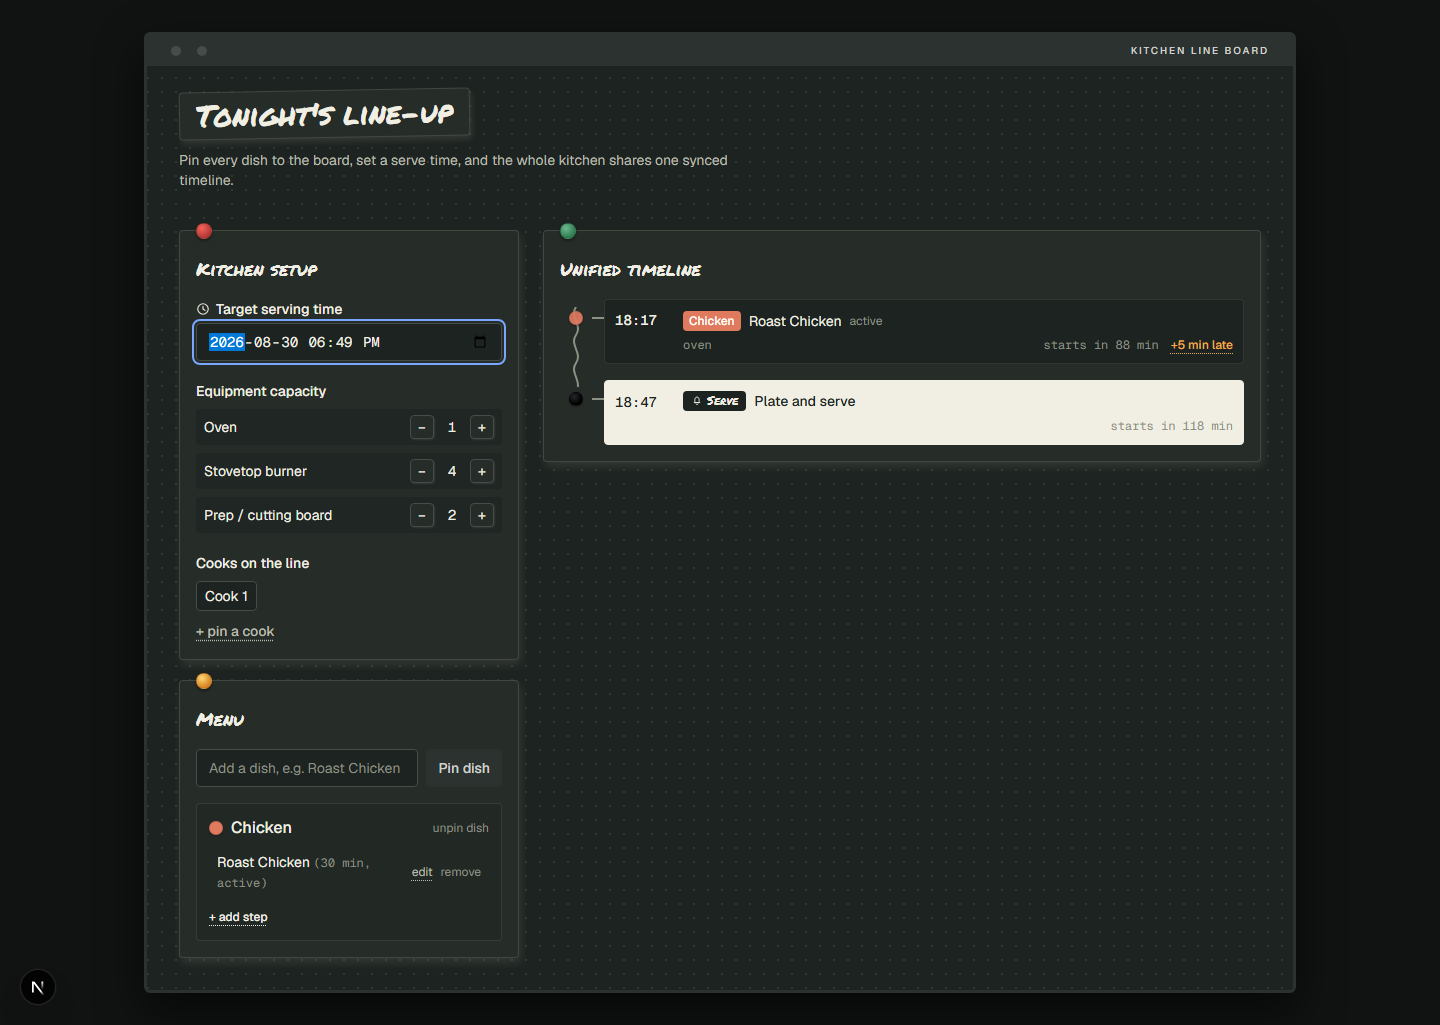
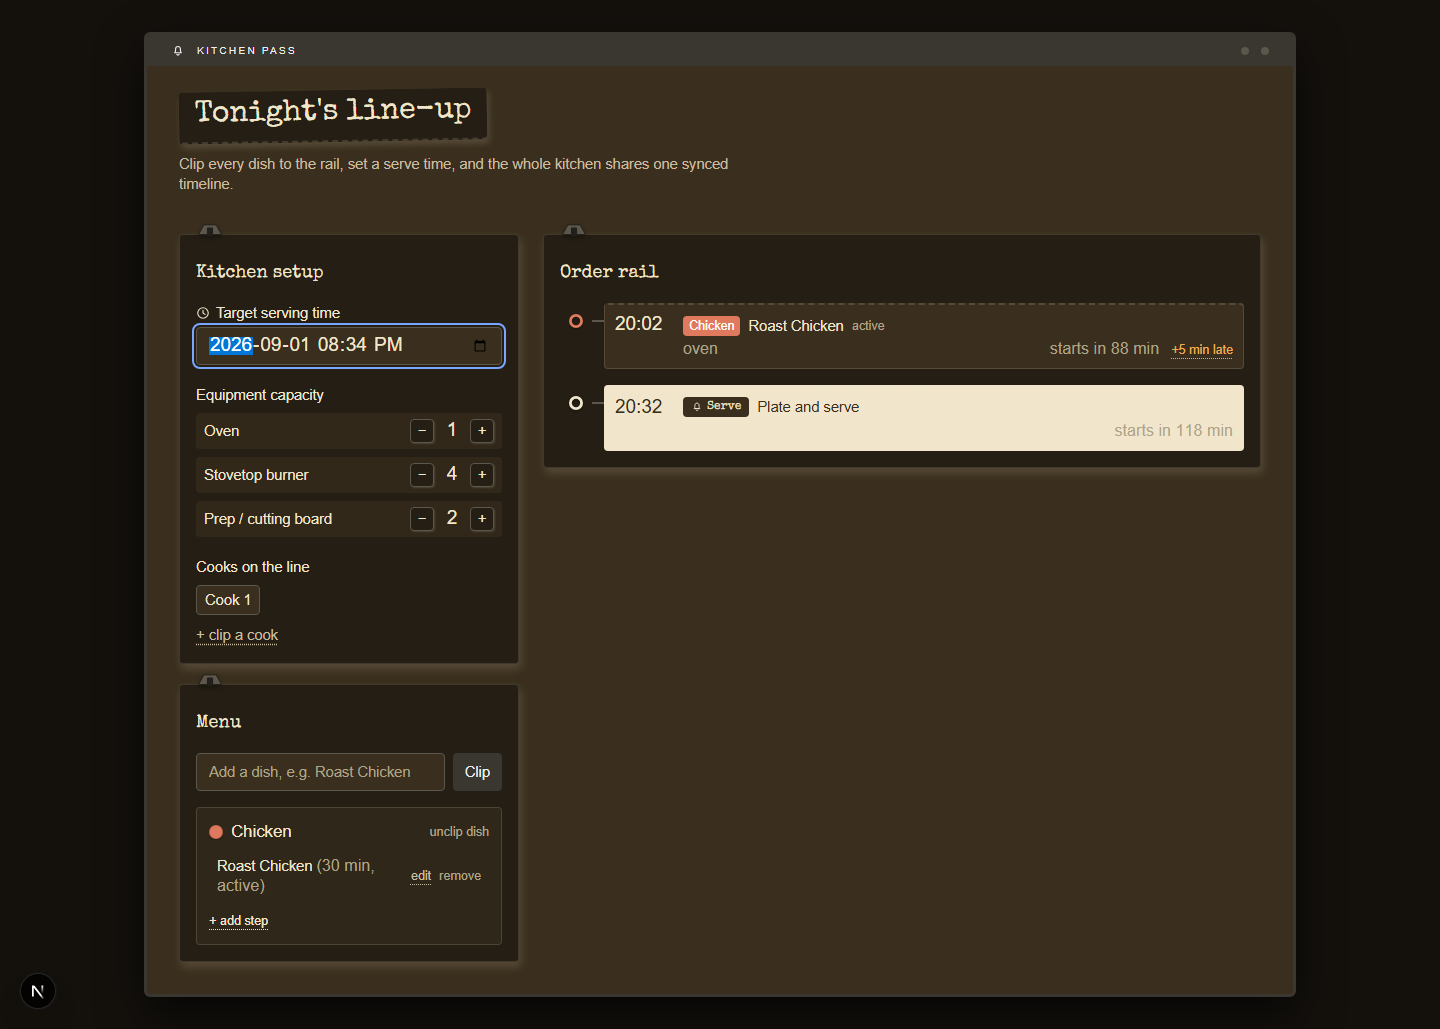
fix: shorten the menu add-dish button so its placeholder stops clipping
"Clip dish" pushed the input just narrow enough to truncate its own
placeholder text ("Roast Chicke"). Shortened to "Clip" and refreshed
the review screenshots (light/dark, filled/conflict) as evidence.

diff --git a/src/components/RecipeBuilder.tsx b/src/components/RecipeBuilder.tsx
@@ -61,7 +61,7 @@ export function RecipeBuilder() {
           onClick={createRecipe}
           className="rounded-sm bg-[var(--frame)] px-3 py-2 text-sm font-medium text-[var(--frame-label)] hover:bg-[var(--frame-dark)]"
         >
-          Clip dish
+          Clip
         </button>
       </div>
 
